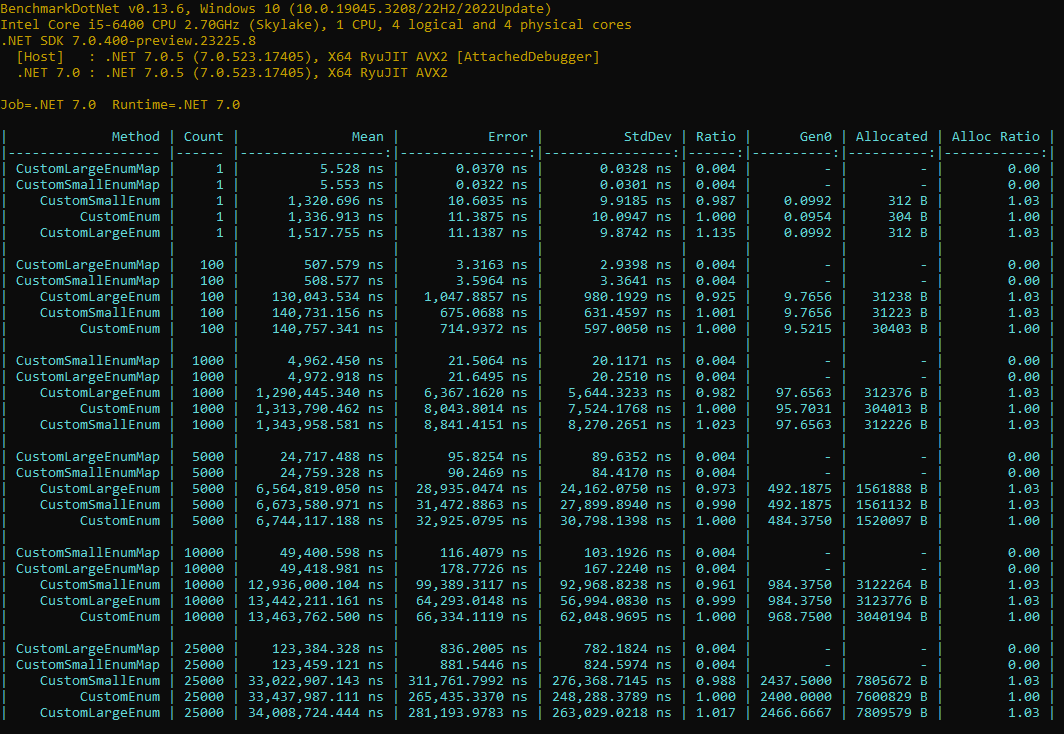
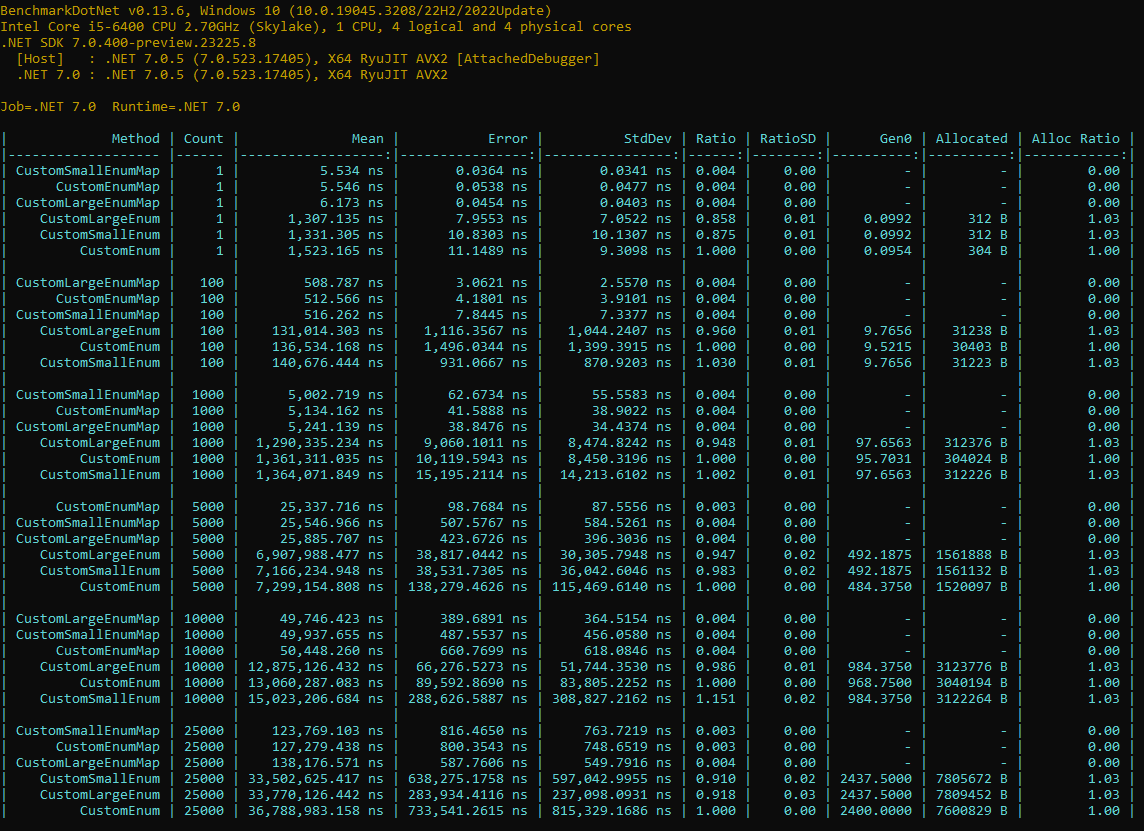
finish readme for get enum attribute

Changed region(s): [[0.0, 0.0, 0.9925, 0.9891]]

diff --git a/src/ReflectionBenchmar/GenericExport/CsvExport.cs b/src/ReflectionBenchmar/GenericExport/CsvExport.cs
@@ -1,0 +1,12 @@
+using System;
+using System.Collections.Generic;
+using System.Linq;
+using System.Text;
+using System.Threading.Tasks;
+
+namespace ReflectionBenchmark.GenericExport
+{
+    internal class CsvExport
+    {
+    }
+}

diff --git a/src/ReflectionBenchmar/GetEnumAttribute/GetEnumAttributeBenchmark.cs b/src/ReflectionBenchmar/GetEnumAttribute/GetEnumAttributeBenchmark.cs
@@ -51,6 +51,7 @@ namespace ReflectionBenchmark.GetEnumAttribute
             }
         }
 
+        [Benchmark]
         public void CustomEnumMap()
         {
             for (var i = 0; i < Count; i++)

diff --git a/README.md b/README.md
@@ -1,7 +1,7 @@
 # IN PROGRESS
 
 # ReflectionBenchmar
-Reflection is a very powerful tool for determining objects during run-time, but it takes performance. There is a widely held opinion throughout the community that reflection is bad and should not be used, but in my opinion there are a lot of business cases when the reflection is the cleanest and simplest solution, of course I am not talking about high performance applications where performance is on the first place.
+Reflection is a very powerful tool for determining objects during run-time, but it takes performance. There is a widely held opinion throughout the community that reflection is bad and should not be used, but in my opinion there are a lot of business cases when the reflection is the cleanest and simplest solution, of course I am not talking about high performance applications where the performance is on the first place.
 
 # Menu
 
@@ -52,7 +52,10 @@ To be able to compare with some fast solution I create static Dictionary -> Map 
 ![Measure One - Get Enum Attribute](./doc/img/getEnumAttribute.png)
 
 ### Summary
+As we can see implementation with **Dictionary** is much faster and do not allocate memory when we try to get value by key, but it has to be edited every time we add a new item to Enum.
+**Reflection** is slower (but don't forger that we are still talking about nanoseconds so process 25K items takes 33 milliseconds) and allocate memory in consequence of which runs GC. In the case of 25k items it is a lot of garbage collections and allocated memory. On the other hand with relfection we don't care about Enum editing.
 
+**In my opinion and this case we can use reflection, but responsibly, for small portion of GetCustomAttribute calls (let's say till 1k) is totally OK and we don't have to remember to edit our code, but for a bunch of data reflection is not sufficient because of memory allocations.**
 
 
 # Measure Two - Export Data by Reflection
